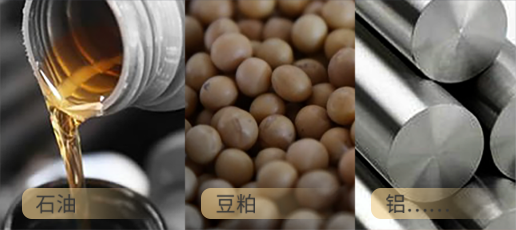
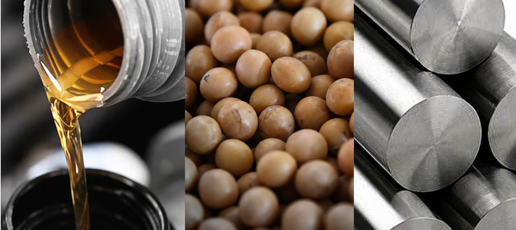
refine

diff --git a/careers.html b/careers.html
@@ -5,14 +5,14 @@
     <meta name="viewport" content="width=device-width, initial-scale=1.0">
     <title>人才招聘 | 均成基金</title>
     <meta name="description" content="加入均成基金量化团队。了解团队文化、办公环境与招聘入口，简历可投递至 zhaopin@parigain.com。">
-    <link rel="canonical" href="https://realpwen.github.io/jcweb/careers.html">
+    <link rel="canonical" href="https://parigain.com/careers.html">
     <meta property="og:title" content="人才招聘 | 均成基金">
     <meta property="og:description" content="了解均成基金团队文化、办公环境与招聘入口。">
     <meta property="og:type" content="website">
-    <meta property="og:image" content="https://realpwen.github.io/jcweb/images/logo.png">
-    <meta property="og:url" content="https://realpwen.github.io/jcweb/careers.html">
+    <meta property="og:image" content="https://parigain.com/images/logo.png">
+    <meta property="og:url" content="https://parigain.com/careers.html">
     <meta name="twitter:card" content="summary_large_image">
-    <meta name="twitter:image" content="https://realpwen.github.io/jcweb/images/logo.png">
+    <meta name="twitter:image" content="https://parigain.com/images/logo.png">
     <link rel="stylesheet" href="./css/style.css">
     <link rel="preconnect" href="https://fonts.googleapis.com">
     <link rel="preconnect" href="https://fonts.gstatic.com" crossorigin>
@@ -29,7 +29,7 @@
             <div class="container">
                 <span class="accent-line">Join Parigain</span>
                 <h1>加入均成 <br><span class="accent">做更好的自己</span></h1>
-                <p>寻找硬核极客，共建量化新纪元。来均成，加入专业量化团队，在真实投研和系统工程中快速成长。</p>
+                <p>加入专业量化团队，在真实投研和系统工程中快速成长。</p>
                 <div class="hero-btns careers-hero-actions">
                     <a href="#career-values" class="btn-main">了解团队</a>
                     <a href="#recruitment" class="btn-outline">查看招聘入口</a>
@@ -62,7 +62,7 @@
                             <span>02</span>
                             <h3>均享生活</h3>
                             <ul>
-                                <li>弹性不打卡，拒绝无效加班，工作生活平衡</li>
+                                <li>弹性工作时间，拒绝无效加班，工作生活平衡</li>
                                 <li>每日供应新鲜水果、下午茶小零食</li>
                                 <li>无强制团建，公司承包每周羽毛球、网球、普拉提、燃脂训练课</li>
                             </ul>
@@ -142,7 +142,6 @@
                 </div>
                 <div class="recruit-system-actions">
                     <a href="https://www.zhipin.com/web/geek/jobs?query=%E5%9D%87%E6%88%90%E5%9F%BA%E9%87%91" target="_blank" rel="noopener" class="btn-main">查看招聘</a>
-                    <a href="mailto:zhaopin@parigain.com" class="btn-outline">投递简历</a>
                 </div>
             </div>
         </section>

diff --git a/index.html b/index.html
@@ -3,25 +3,25 @@
 <head>
     <meta charset="UTF-8">
     <meta name="viewport" content="width=device-width, initial-scale=1.0">
-    <title>均成基金 | 专业量化对冲资产管理中心</title>
+    <title>均成基金 | 广东横琴均成私募基金管理有限公司</title>
     <!-- SEO & Social Sharing -->
-    <meta name="description" content="广东横琴均成私募基金管理有限公司成立于2016年，公司具备私募基金管理人资格（备案编号：P1061222），是一家以量化投资为核心的专业资产管理公司。">
-    <link rel="canonical" href="https://realpwen.github.io/jcweb/">
-    <meta property="og:title" content="均成基金 | 专业量化对冲资产管理中心">
-    <meta property="og:description" content="深耕量化对冲，自研智能交易程序，具备私募基金管理人资格（备案编号：P1061222）。">
+    <meta name="description" content="均成基金成立于2016年，具备私募基金管理人资格（备案编号：P1061222）。公司以量化 CTA、量化选股和中性策略为核心，致力于为投资者创造稳健回报。">
+    <link rel="canonical" href="https://parigain.com/">
+    <meta property="og:title" content="均成基金 | 广东横琴均成私募基金管理有限公司">
+    <meta property="og:description" content="均成基金成立于2016年，以量化 CTA、量化选股和中性策略为核心，具备私募基金管理人资格（备案编号：P1061222）。">
     <meta property="og:type" content="website">
-    <meta property="og:image" content="https://realpwen.github.io/jcweb/images/logo.png">
-    <meta property="og:url" content="https://realpwen.github.io/jcweb/">
+    <meta property="og:image" content="https://parigain.com/images/logo.png">
+    <meta property="og:url" content="https://parigain.com/">
     <meta name="twitter:card" content="summary_large_image">
-    <meta name="twitter:image" content="https://realpwen.github.io/jcweb/images/logo.png">
+    <meta name="twitter:image" content="https://parigain.com/images/logo.png">
     <script type="application/ld+json">
         {
             "@context": "https://schema.org",
             "@type": "Organization",
             "name": "广东横琴均成私募基金管理有限公司",
             "alternateName": "Parigain",
-            "url": "https://realpwen.github.io/jcweb/",
-            "logo": "https://realpwen.github.io/jcweb/images/logo.png",
+            "url": "https://parigain.com/",
+            "logo": "https://parigain.com/images/logo.png",
             "email": "contact@parigain.com",
             "telephone": "+86-755-86525376",
             "foundingDate": "2016",

diff --git a/js/main.js b/js/main.js
@@ -405,6 +405,7 @@ document.addEventListener('DOMContentLoaded', () => {
             if (!slides.length) return;
 
             let index = 0;
+            let timerId;
             let dragStartX = 0;
             let dragStartIndex = 0;
             let isDragging = false;
@@ -431,9 +432,19 @@ document.addEventListener('DOMContentLoaded', () => {
                 }
             };
 
+            const start = () => {
+                window.clearInterval(timerId);
+                timerId = window.setInterval(() => goTo(index + 1), 3600);
+            };
+
+            const restart = () => {
+                start();
+            };
+
             dots.forEach((dot, dotIndex) => {
                 dot.addEventListener('click', () => {
                     goTo(dotIndex, { centerAxis: true });
+                    restart();
                 });
             });
 
@@ -445,14 +456,19 @@ document.addEventListener('DOMContentLoaded', () => {
                     event.stopPropagation();
                     const direction = button.dataset.milestoneNav === 'prev' ? -1 : 1;
                     goTo(index + direction);
+                    restart();
                 });
             });
+
+            carousel.addEventListener('mouseenter', () => window.clearInterval(timerId));
+            carousel.addEventListener('mouseleave', start);
 
             stage?.addEventListener('pointerdown', (event) => {
                 if (event.button !== undefined && event.button !== 0) return;
                 isDragging = true;
                 dragStartX = event.clientX;
                 dragStartIndex = index;
+                window.clearInterval(timerId);
                 carousel.classList.add('is-dragging');
                 stage.setPointerCapture?.(event.pointerId);
             });
@@ -473,6 +489,7 @@ document.addEventListener('DOMContentLoaded', () => {
                 carousel.classList.remove('is-dragging');
                 stage?.releasePointerCapture?.(event.pointerId);
                 goTo(nextIndex, { centerAxis: true });
+                start();
             };
 
             stage?.addEventListener('pointerup', finishDrag);
@@ -482,9 +499,11 @@ document.addEventListener('DOMContentLoaded', () => {
                 isDragging = false;
                 carousel.classList.remove('is-dragging');
                 carousel.style.setProperty('--milestone-drag-x', '0px');
+                start();
             });
 
             goTo(0);
+            start();
         });
     };
 

diff --git a/contact.html b/contact.html
@@ -6,14 +6,14 @@
     <title>联系我们 | 均成基金</title>
     <!-- SEO & Social Sharing -->
     <meta name="description" content="联系均成基金。查看深圳研发与投研中心、横琴合规与业务中心办公地址、联系电话和投资者咨询邮箱。">
-    <link rel="canonical" href="https://realpwen.github.io/jcweb/contact.html">
+    <link rel="canonical" href="https://parigain.com/contact.html">
     <meta property="og:title" content="联系我们 | 均成基金">
     <meta property="og:description" content="查看均成基金深圳与横琴办公地址、联系电话和投资者咨询邮箱。">
     <meta property="og:type" content="website">
-    <meta property="og:image" content="https://realpwen.github.io/jcweb/images/logo.png">
-    <meta property="og:url" content="https://realpwen.github.io/jcweb/contact.html">
+    <meta property="og:image" content="https://parigain.com/images/logo.png">
+    <meta property="og:url" content="https://parigain.com/contact.html">
     <meta name="twitter:card" content="summary_large_image">
-    <meta name="twitter:image" content="https://realpwen.github.io/jcweb/images/logo.png">
+    <meta name="twitter:image" content="https://parigain.com/images/logo.png">
     <script type="application/ld+json">
         {
             "@context": "https://schema.org",
@@ -21,7 +21,7 @@
             "mainEntity": {
                 "@type": "Organization",
                 "name": "广东横琴均成私募基金管理有限公司",
-                "url": "https://realpwen.github.io/jcweb/",
+                "url": "https://parigain.com/",
                 "email": "contact@parigain.com",
                 "telephone": "+86-755-86525376",
                 "identifier": "P1061222",

diff --git a/about.html b/about.html
@@ -6,14 +6,14 @@
     <title>关于均成 | 均成基金 - 量化投资的硬核力量</title>
     <!-- SEO & Social Sharing -->
     <meta name="description" content="了解均成基金的发展背景、核心团队、量化交易系统、风控流程与历史荣誉。公司成立于2016年，备案编号 P1061222。">
-    <link rel="canonical" href="https://realpwen.github.io/jcweb/about.html">
+    <link rel="canonical" href="https://parigain.com/about.html">
     <meta property="og:title" content="关于均成 | 均成基金">
     <meta property="og:description" content="深耕量化对冲，以科学方法解构金融市场。">
     <meta property="og:type" content="website">
-    <meta property="og:image" content="https://realpwen.github.io/jcweb/images/ceo-1200.webp">
-    <meta property="og:url" content="https://realpwen.github.io/jcweb/about.html">
+    <meta property="og:image" content="https://parigain.com/images/ceo-1200.webp">
+    <meta property="og:url" content="https://parigain.com/about.html">
     <meta name="twitter:card" content="summary_large_image">
-    <meta name="twitter:image" content="https://realpwen.github.io/jcweb/images/ceo-1200.webp">
+    <meta name="twitter:image" content="https://parigain.com/images/ceo-1200.webp">
 
     <link rel="stylesheet" href="./css/style.css">
     <link rel="preconnect" href="https://fonts.googleapis.com">

diff --git a/strategy.html b/strategy.html
@@ -6,14 +6,14 @@
     <title>投资策略 | 均成基金 - 专业量化对冲</title>
     <!-- SEO & Social Sharing -->
     <meta name="description" content="均成基金投资策略覆盖截面多空、量化交易、量化 CTA 与股票量化选股，通过多因子模型和风控体系追求稳健收益。">
-    <link rel="canonical" href="https://realpwen.github.io/jcweb/strategy.html">
+    <link rel="canonical" href="https://parigain.com/strategy.html">
     <meta property="og:title" content="投资策略 | 均成基金">
     <meta property="og:description" content="深耕量化，多维捕捉市场Alpha。">
     <meta property="og:type" content="website">
-    <meta property="og:image" content="https://realpwen.github.io/jcweb/images/logo.png">
-    <meta property="og:url" content="https://realpwen.github.io/jcweb/strategy.html">
+    <meta property="og:image" content="https://parigain.com/images/logo.png">
+    <meta property="og:url" content="https://parigain.com/strategy.html">
     <meta name="twitter:card" content="summary_large_image">
-    <meta name="twitter:image" content="https://realpwen.github.io/jcweb/images/logo.png">
+    <meta name="twitter:image" content="https://parigain.com/images/logo.png">
 
     <link rel="stylesheet" href="./css/style.css">
     <link rel="preconnect" href="https://fonts.googleapis.com">
